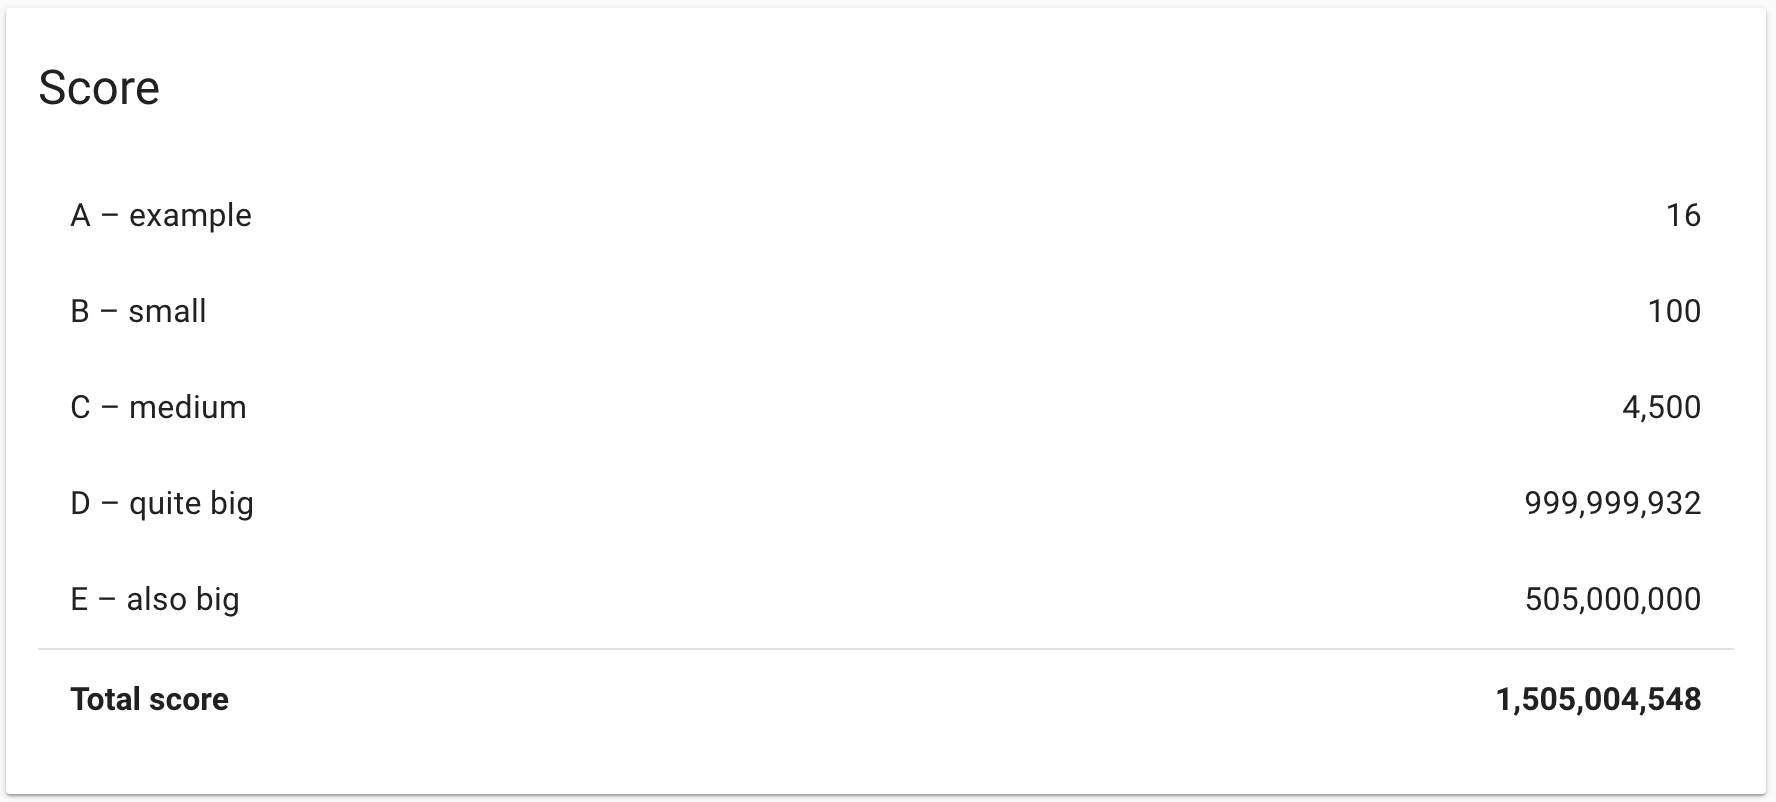
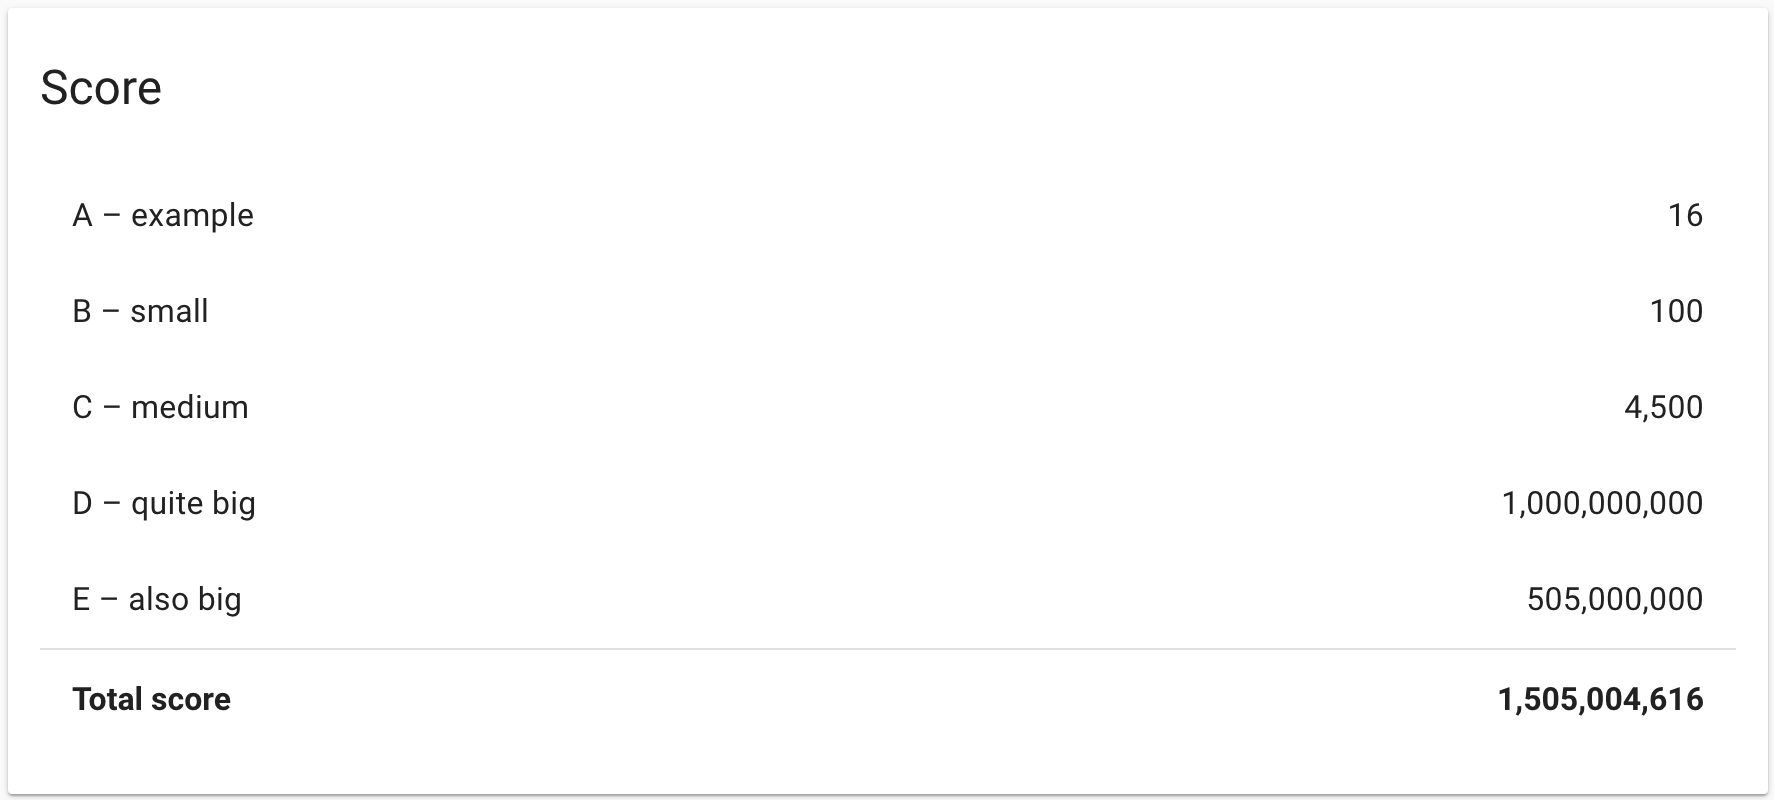
Improve simple solver to reach the optimum

diff --git a/solvers/simple.py b/solvers/simple.py
@@ -28,20 +28,26 @@ class Simple(Alg):
         res = []
         best = 0
 
-        for j in range(self.data.N, 1, -1):
-            loc_res = []
-            loc_best = 0
-            for i in range(j - 1, -1, -1):
-                if loc_best + self.data.slices[i] > self.data.M:
-                    continue
-                loc_res.append(i)
-                loc_best += self.data.slices[i]
+        try:
+            for k in range(self.data.N - 1):
+                for j in range(self.data.N, k + 1, -1):
+                    loc_res = []
+                    loc_best = 0
+                    # for i in range(j - 1, -1, -1):
+                    for i in range(self.data.N):
+                        if abs(i - j) < 1 or abs(i - k) < 1 or loc_best + self.data.slices[i] > self.data.M:
+                            continue
+                        loc_res.append(i)
+                        loc_best += self.data.slices[i]
 
-            if loc_best > best:
-                res = loc_res
-                best = loc_best
+                    if loc_best > best:
+                        res = loc_res
+                        best = loc_best
+                        print(f"New best: {best}")
+        except KeyboardInterrupt as e:
+            # handle keyboard interruption to stop manually
+            print(f"{e} has been triggered")
 
-        res = [self.data.N - i for i in res]
         self.write(res)
 
         return best, res

diff --git a/README.md b/README.md
@@ -1,5 +1,6 @@
-# hashcode2020-prep
-A solution for the practice round of Google HashCode 2020 
+# Hashcode 2020 practice round
+
+An optimal solution for the practice round of Google HashCode 2020. 
 
 ![Submission score](static/score.png)
 
@@ -34,10 +35,10 @@ Source: [Google Hashcode Judge System](https://hashcodejudge.withgoogle.com/#/ro
 a_example | dynamic | 16
 b_small | dynamic | 100
 c_medium | dynamic | 4500
-d_quite_big | RTL | 999999932
+d_quite_big | RTL | 1000000000
 e_also_big | RTL | 505000000
 
-The total score is *1,505,004,548* (68 points below the best known solution)
+The total score is **1,505,004,616** (the best known solution)
 
 
 
